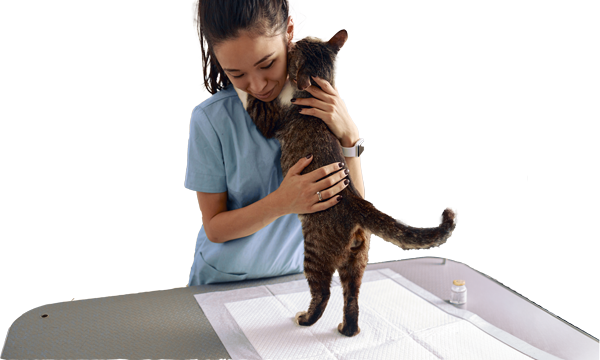
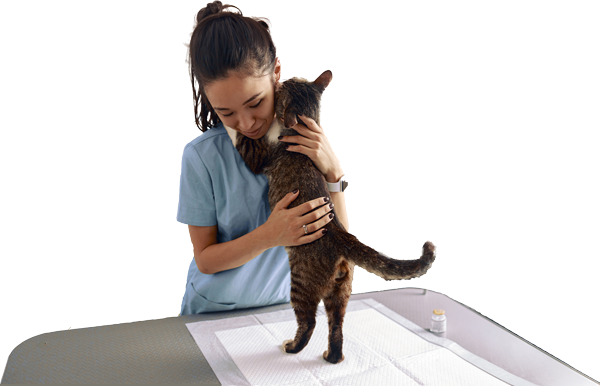
responsive tweaks on all practice pages, added tops to heads of models, centered images on some sizes.

diff --git a/dental.html b/dental.html
@@ -80,21 +80,22 @@
         </nav>
 	</header>
 	<main id="dental">
-        <div class="container-fluid pt-5 plGrey" id="dental-header">
+        <div class="container-fluid plGrey">
             <div class="container mx-auto">
-                <div class="row ">
-                    <div class="col-md-6 d-flex justify-content-end">
-                        
-                        <img src="images/female03-dr-labcoat.png" alt="" class="img-fluid">
-
-                    </div>
-                    <div class="col-md-6 text-center d-flex flex-column justify-content-center">
-                        <h1 class="plBlue-text py-3">Let us support you on your dental practice journey.</h1>
+                <div class="row indHead">
+                    
+                    <div class="order-md-last col-md-6 text-center d-flex flex-column justify-content-center">
+                        <h1>Let us support you on your dental practice journey.</h1>
                         <div>
                             <a class="nav-link" aria-disabled="true" href="form.html">
                                 <button class="btn plGreen-btn btn-lg w-50 py-1" type="submit"><b>Get Started</b></button>
                             </a>
                         </div>
+                    </div>
+                    <div class="order-md-first col-md-6 text-center">
+                        
+                        <img src="images/female03-dr-labcoat.png" alt="" class="img-fluid pt-3">
+
                     </div>
                 </div>
             </div>
@@ -115,7 +116,7 @@
             </div>
         </div>
 
-        <div class="container-fluid pt-5 plLtGreen specialties-served" id="specialties-served">
+        <div class="container-fluid pt-5 plLtGreen specialties-served" id="dent-spec-ser">
             <div class="container">
                 <div class="row">
                     <div class="col-12 col-md-6 d-flex flex-column justify-content-center text-center">
@@ -254,28 +255,28 @@
 
 
         
-        <div class="container-fluid plLtBurnt" id="dental-supporters">
+        <div class="container-fluid plLtBurnt supp" id="den-sup">
             <div class="container">
                 <div class="row">
                     <div class="col-12 col-md-6 d-flex flex-column justify-content-center">
                         <h2>Proud Supporters Of</h2>
                         <div class="row">
-                            <div class="col-6 p-3 d-flex flex-column justify-content-center">
-                                <img src="images/sponsor/smile-train-25.png" class="w-75">
+                            <div class="col-12 col-md-6 p-3 d-flex flex-column justify-content-center">
+                                <img src="images/sponsor/smile-train-25.png" class="img-fluid p-1 mx-auto">
                             </div>
                             
-                            <div class="col-6 p-3 d-flex flex-column justify-content-center">
-                                <img src="images/sponsor/ro-int.png" class="img-fluid">
+                            <div class="col-12 col-md-6 p-3 d-flex flex-column justify-content-center">
+                                <img src="images/sponsor/ro-int.png" class="img-fluid p-1 mx-auto">
                             </div>
-                            <div class="col-6 p-3 d-flex flex-column justify-content-center">
-                                <img src="images/sponsor/hinman-logo.png" class="w-75">
+                            <div class="col-12 col-md-6 p-3 d-flex flex-column justify-content-center">
+                                <img src="images/sponsor/hinman-logo.png" class="img-fluid p-1 mx-auto">
                             </div>
 
                             
                         </div>
                     </div>
                     <div class="col-12 col-md-6 d-flex justify-content-bottom">
-                        <img src="images/blue-scrubs-female.png" alt="" class="w-75">    
+                        <img src="images/blue-scrubs-female.png" alt="" class="img-fluid">    
                     </div>
 				</div>
 			</div>

diff --git a/veterinary.html b/veterinary.html
@@ -84,16 +84,16 @@
 
         <div class="container-fluid plGrey" id="veterinary-header">
             <div class="container">
-                <div class="row">
-                    <div class="col-md-6 text-center d-flex flex-column justify-content-center py-5">
-                        <h1 class="plBlue-text">Let us  provide a<br><span class="plBurnt-text"><i>purr-fectly</i></span> clear perspective on your practice journey.</h1>
+                <div class="row indHead">
+                    <div class="col-md-6 text-center d-flex flex-column justify-content-center">
+                        <h1>Let us  provide a <span class="plBurnt-text"><i>purr-fectly</i></span> clear perspective on your practice journey.</h1>
                         <div class="p-2">
                             <a class="nav-link" aria-disabled="true" href="form.html">
                                 <button class="btn plGreen-btn btn-lg w-50 py-1" type="submit"><b>Get Started</b></button>
                             </a>
                         </div>
                     </div>
-                    <div class="col-12 col-md-6 bottom-image p-0 m-0">
+                    <div class="col-md-6 bottom-image p-0 m-0">
                         <img src="images/blue-scrubs-dog.png" alt="" class="img-fluid">   
                     </div>
                 </div>
@@ -118,13 +118,11 @@
 
 
 
-        <div class="container-fluid plLtBurnt specialties-served" id="specialties-served">
+        <div class="container-fluid plLtBurnt specialties-served" id="vet-spec-ser">
             <div class="container">
                 <div class="row">
-                    <div class="col-12 col-md-12 col-lg-6 order-md-first">
-                        <img src="images/blue-scrubs-stethascope-dog.png" alt="" class="img-fluid">    
-                    </div>
-                    <div class="col-12 col-md-12 col-lg-6 text-center d-flex flex-column justify-content-center">
+                   
+                    <div class="order-lg-last col-12 col-md-12 col-lg-6 text-center d-flex flex-column justify-content-center">
                         <h2>Specialties Served</h2>
                         <p class="text-white fw-bold fs-3">We have provided professional business coaching and consulting advice to:</p> 
                         <div id="carouselTestimonials" class="carousel slide" data-bs-ride="carousel" data-interval="1">
@@ -149,6 +147,9 @@
                         <a class="nav-link py-3" aria-disabled="true" href="form.html">
                             <button class="btn plGreen-btn btn-lg w-50 py-1" type="submit"><b>Get Started</b></button>
                         </a>                       
+                    </div>
+                    <div class="order-lg-first col-12 col-md-12 col-lg-6">
+                        <img src="images/blue-scrubs-stethascope-dog.png" alt="" class="img-fluid">    
                     </div>
                    
 				</div>
@@ -231,7 +232,7 @@
 
 
         
-        <div class="container-fluid plLtGreen" id="veterinary-supporters">
+        <div class="container-fluid plLtGreen supp" id="vet-sup">
             <div class="container">
                 <div class="row">
                     <div class="col-12 col-md-6 d-flex flex-column justify-content-center">
@@ -250,7 +251,7 @@
                         </div>
                     </div>
                     <div class="col-12 col-md-6 d-flex justify-content-bottom">
-                        <img src="images/cat-blue-scrubs.png" alt="" class="w-75">    
+                        <img src="images/cat-blue-scrubs.png" alt="" class="img-fluid mt-1">    
                     </div>
 				</div>
 			</div>

diff --git a/optometry.html b/optometry.html
@@ -81,11 +81,11 @@
 	<main>
 
 
-        <div class="container-fluid plGrey" id="veterinary-header">
+        <div class="container-fluid plGrey">
             <div class="container mx-auto">
-                <div class="row">
-                    <div class="col-md-6 text-center d-flex flex-column justify-content-center py-5">
-                        <h1 class="plBlue-text px-5">Ensure your vision for success is always <span class="plBurnt-text">20/20!</h1>
+                <div class="row indHead">
+                    <div class="col-md-6 text-center d-flex flex-column justify-content-center">
+                        <h1>Ensure your vision for success is always <span class="plBurnt-text">20/20</span>!</h1>
 
                         <a class="nav-link" aria-disabled="true" href="form.html">
                             <button class="btn plGreen-btn btn-lg w-50 py-1" type="submit"><b>Get Started</b></button>
@@ -115,7 +115,7 @@
             </div>
         </div>
 
-        <div class="container-fluid pt-5 plLtGreen specialties-served" id="veterinary-specialties-served">
+        <div class="container-fluid pt-5 plLtGreen specialties-served" id="vet-spec-ser">
             <div class="container">
                 <div class="row">
                     
@@ -236,23 +236,23 @@
 
 
         
-       <div class="container-fluid plLtGreen" id="veterinary-supporters">
+       <div class="container-fluid plLtGreen supp" id="opt-sup">
             <div class="container">
                 <div class="row">
                     <div class="col-12 col-md-6 d-flex flex-column justify-content-center">
                         <h2>Proud Supporters Of</h2>
                         <div class="row">
-                            <div class="col-12 col-md-6 p-3">
-                                <img src="images/sponsor/Vision-To-Learn-logo.png" class="w-50">
+                            <div class="col-12 col-md-6 p-3 text-center">
+                                <img src="images/sponsor/Vision-To-Learn-logo.png" class="img-fluid">
                             </div>
-                            <div class="col-12 col-md-6 p-3">
-                                <img src="images/sponsor/VOSH.png" class="w-50">
+                            <div class="col-12 col-md-6 p-3 text-center">
+                                <img src="images/sponsor/VOSH.png" class="img-fluid">
                             </div>
                             
                         </div>
                     </div>
-                    <div class="col-12 col-md-6 d-flex justify-content-bottom">
-                        <img src="images/lady-optemeter-short-hair.png" alt="" class="w-75">    
+                    <div class="col-12 col-md-6 d-flex justify-content-bottom text-center">
+                        <img src="images/lady-optemeter-short-hair.png" alt="" class="img-fluid">    
                     </div>
 				</div>
 			</div>

diff --git a/css/pl.css b/css/pl.css
@@ -150,7 +150,11 @@ nav {
 }
 #twoCoreSolutions h2 {
     margin: 0px auto 5px auto;
-    padding: 0 0 1em 0;
+    padding: 0;
+}
+#twoCoreSolutions .col-12 p {
+    font-size: 1.25em;
+    line-height: 1.25em;
 }
 
 #cos-neu .accordion-item button {
@@ -166,7 +170,10 @@ nav {
 }
 #twentyFiveYears .col-4 h3 {
     font-size: calc(.9rem + .6vw);        
-}   
+} 
+.specialties-served h2 {
+    padding: 1em 0 0 0;
+}  
 .specialties-served p {
     color: white;
     text-shadow: 0px 0px 7px rgba(150,150,150,0.75);
@@ -174,25 +181,17 @@ nav {
 .specialties-served a {
     text-shadow: none;
 }
-#med-spec-serv p {
+.supp h2 {
+    padding: 1em 0 0 0;    
+}
+.indHead h1 {
+    padding: 1em 0;
+    color:rgba(30, 51, 91, 1);
+}
 
-}
-#dental-header h1{
-    font-size: 3.5em;
-    line-height: 1.5em;
-}
-#veterinary-header h1 {
-    font-size: 2em;
-    line-height: 1em;
-}
 .bottom-image img {
     vertical-align: bottom;
 }
-#medical-header h1 {
-
-    line-height: 1.25em;
-}
-
 
 #ToS li, #PP li,#ToS p, #PP p {
  font-size: 1em;;
@@ -238,10 +237,8 @@ footer li a {
     #leverage h1 {
         font-size: 2.6em!important;
     }
-    #veterinary-header h1 {
-        font-size: 2em;
-        line-height: 1em;
-    }
+  
+
     #cos-neu .accordion-item button {
         width: 100%;
     }
@@ -268,6 +265,10 @@ footer li a {
         margin: 0px auto 145px auto;
         padding: 0 0 1em 0;
     }
+    #twoCoreSolutions .col-12 p {
+        font-size: 1.75em;
+        line-height: 1.5em;
+    }
     .navbar-brand {width:39%;}
     .navbar-brand img {max-height: 148px;}
     .navbar-toggler {
@@ -277,13 +278,12 @@ footer li a {
     #leverage h1 {
         font-size: 4em!important;
     }
-    #veterinary-header h1 {
-        font-size: 2.25em;
-        line-height: 1em;
-    }
     #veterinary-header .bottom-image img {
         vertical-align: bottom;
         margin-top: 80px;
+    }
+    .indHead h1 {
+        padding: 0;
     }
     #cos-neu .accordion-item button {
         width: 80%;
@@ -319,11 +319,6 @@ footer li a {
         margin: 0px auto 215px auto;
         padding: 0 0 1em 0;
     }
-
-    #veterinary-header h1 {
-        font-size: 2em;
-        line-height: 1em;
-    }
     #cos-neu .accordion-item button {
         width: 70%;
     }
@@ -343,10 +338,6 @@ footer li a {
     #twoCoreSolutions h2 {
         margin: 0px auto 235px auto;
         padding: 0 0 1em 0;
-    }
-    #veterinary-header h1 {
-        font-size: 2.75em;
-        line-height: 1em;
     }
     #cos-neu .accordion-item button {
         width: 60%;
@@ -368,10 +359,6 @@ footer li a {
     #twoCoreSolutions h2 {
         margin: 0px auto 140px auto;
         padding: 0 0 180px 0;
-    }
-    #veterinary-header h1 {
-        font-size: 3em;
-        line-height: 1em;
     }
     #cos-neu .accordion-item button {
         width: 50%;

diff --git a/medical.html b/medical.html
@@ -81,12 +81,12 @@
 	<main id="medical">
         <div class="container-fluid plGrey" id="medical-header">
             <div class="container">
-                <div class="row">
+                <div class="row indHead">
                     <div class="col-4 d-flex justify-content-bottom d-none d-md-inline-flex">   
                         <img src="images/male-dr-labcoat-stethascope.png" alt="male doctor with arms crossed and stethascope around his neck" class="img-fluid">
                     </div>
                     <div class="col-12 col-md-4 text-center d-flex flex-column justify-content-center">
-                        <h1 class="plBlue-text">Let us support you on your medical practice journey.</h1>
+                        <h1>Let us support you on your medical practice journey.</h1>
                         <div class="py-3">
                             <a class="nav-link py-3" aria-disabled="true" href="form.html">
                                 <button class="btn plGreen-btn btn-lg w-50 py-1" type="submit"><b>Get Started</b></button>
@@ -263,7 +263,7 @@
             </div><!-- end container -->
         </div><!-- end container-fluid -->
 
-        <div class="container-fluid pt-5 plLtGreen" id="medical-sponsors-of">
+        <div class="container-fluid plLtGreen supp" id="med-sup">
             <div class="container">
                 <div class="row">
                     <div class="col-12 col-md-6 d-flex flex-column justify-content-center">

diff --git a/index.html b/index.html
@@ -106,7 +106,7 @@
             <div class="container">
                 <div class="row">
                     <h2 class="text-center">We provide our clients with two core solutions...</h2>
-                    <div class="col-12 col-md-4 text-center left">
+                    <div class="col-12 col-md-4 text-center d-flex flex-column justify-content-between left">
                         <h3 class="plBlue-text">CONSULTING</h3>
                         <h5 class="plBurnt-text"><i>Hourly or Retainer</i></h5>
                         <p>We provide strategic practice consulting and coaching nationally for a select group of licensed professionals.</p>
@@ -115,7 +115,7 @@
                             <button class="btn plGreen-btn btn-lg mt-1" type="submit"><b>Learn More</b></button>
                         </a>
                     </div>
-                    <div class="col-12 col-md-4 offset-md-4 text-center right">
+                    <div class="col-12 col-md-4 offset-md-4 text-center d-flex flex-column justify-content-between right">
                         <h3 class="plBlue-text">LOAN ADVISORY</h3>
                         <h5 class="plBurnt-text"><i>Complimentary</i></h5>
                         <p>We specialize in tailored lending solutions for licensed professionals. </p>
